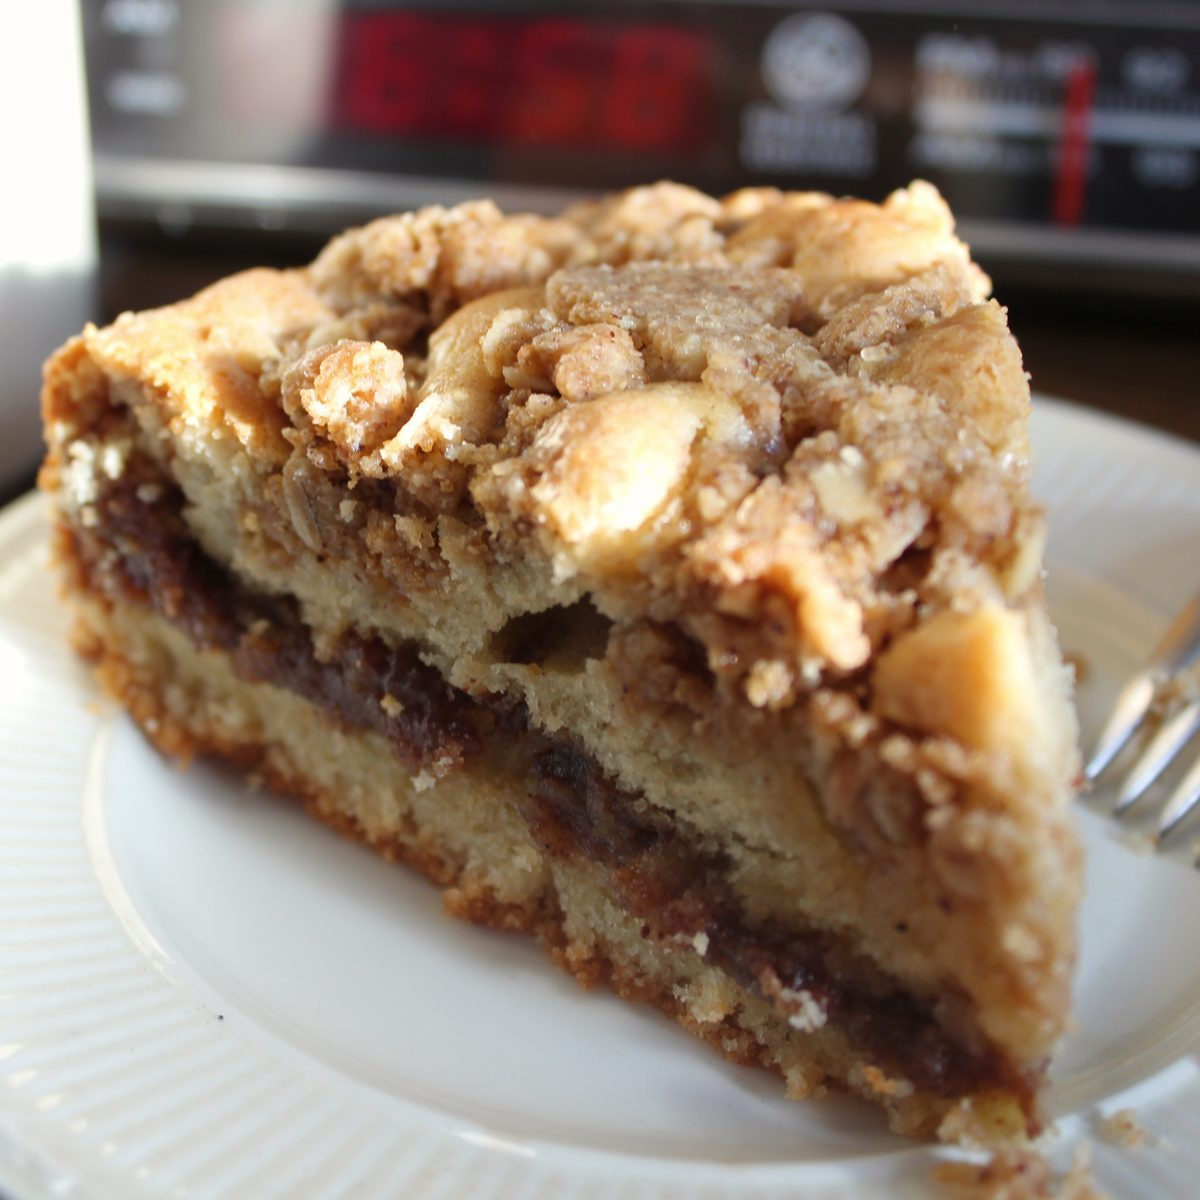
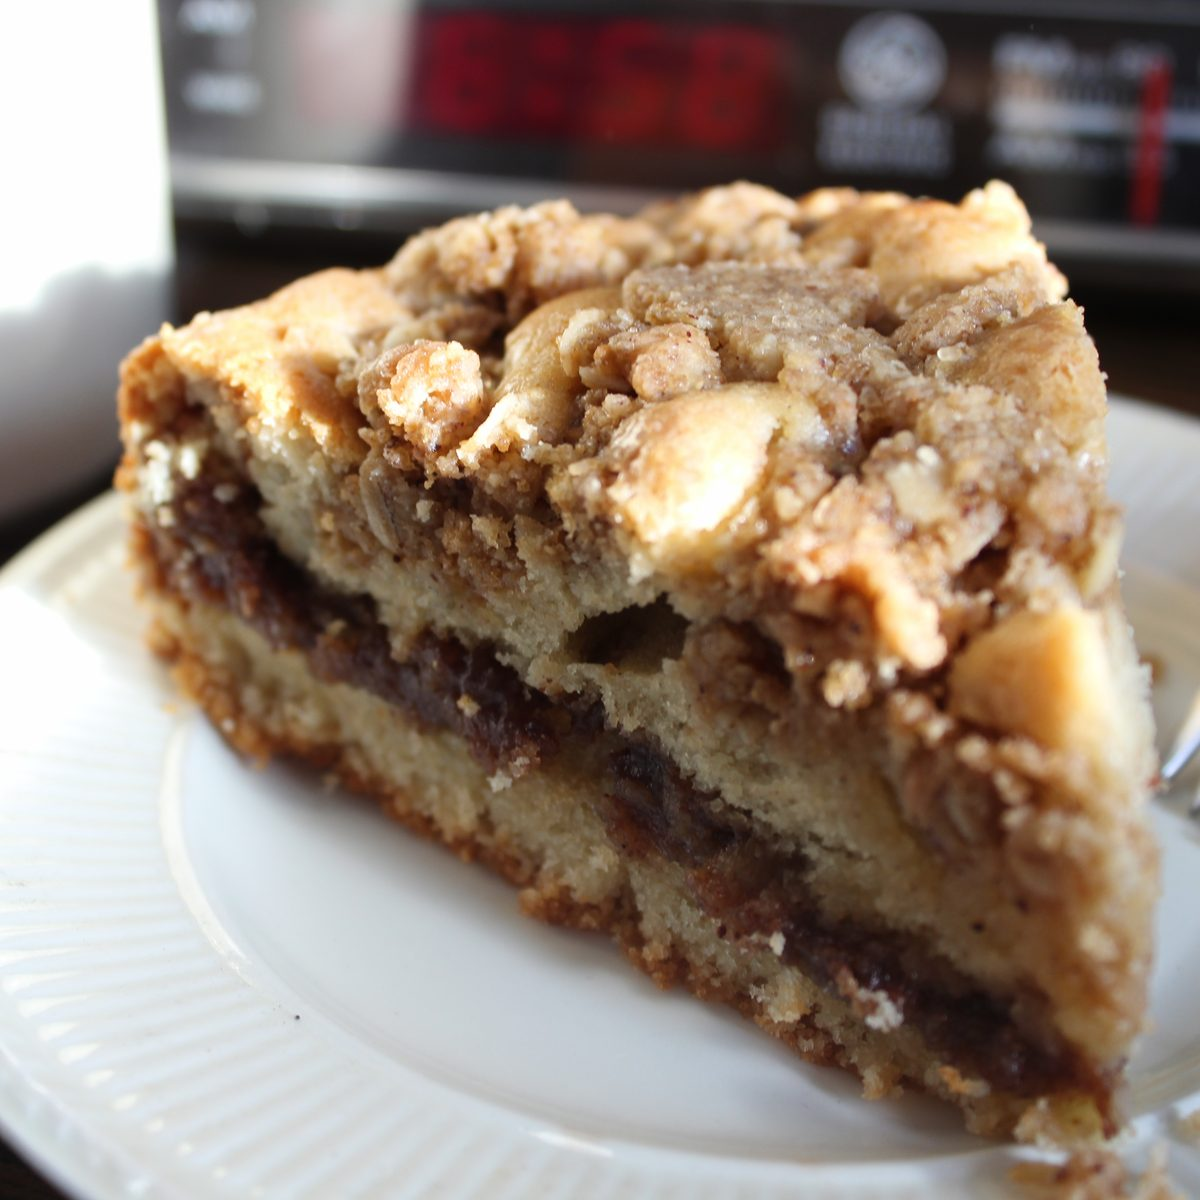
Re-center the coffee cake crop
The slice measures ~4296px wide in the original but the photo is only
3456px tall, so no square crop can hold the whole thing; something always
gets cut. The previous crop cut mostly one side, which read as lopsided
next to the tahini card.

Re-cropped from the 5184x3456 original at x0=950, full height, so the slice
sits centered with the plate rim showing on both sides and the cutting is
symmetric. Bumped to ?v=3.

A squarer or portrait original would remove the constraint entirely if this
gets reshot before launch.

Claude-Session: https://claude.ai/code/session_01SSp9fqnrPG4XQmLYsGqCfN

diff --git a/index.html b/index.html
@@ -118,7 +118,7 @@
         <p class="menu-price">$4</p>
       </a>
       <a class="menu-card card-olive" href="products/hazelnut-coffee-cake">
-        <img loading="lazy" decoding="async" src="assets/coffee-cake-slice.jpg?v=2" alt="A slice of hazelnut coffee cake with cinnamon ribbon and streusel" />
+        <img loading="lazy" decoding="async" src="assets/coffee-cake-slice.jpg?v=3" alt="A slice of hazelnut coffee cake with cinnamon ribbon and streusel" />
         <h3>Hazelnut coffee cake</h3>
         <p>Buttery crumb buried under Oregon hazelnut streusel.</p>
         <p class="menu-price">$6 slice · $32 whole</p>

diff --git a/preorder.html b/preorder.html
@@ -93,7 +93,7 @@
       </div>
 
       <div class="order-card" data-price="6" data-stock="6">
-        <div class="order-photo" style="background-color:#6f7d4a;background-image:url('assets/coffee-cake-slice.jpg?v=2')" role="img" aria-label="Slice of hazelnut coffee cake"></div>
+        <div class="order-photo" style="background-color:#6f7d4a;background-image:url('assets/coffee-cake-slice.jpg?v=3')" role="img" aria-label="Slice of hazelnut coffee cake"></div>
         <div class="order-body">
           <div class="order-title-row">
             <h3>Hazelnut coffee cake</h3>

diff --git a/products/hazelnut-coffee-cake.html b/products/hazelnut-coffee-cake.html
@@ -70,7 +70,7 @@
     </div>
 
     <section class="product-grid">
-      <img class="framed" src="../assets/coffee-cake-slice.jpg?v=2" alt="A slice of hazelnut coffee cake on a white plate, showing the cinnamon ribbon and hazelnut streusel" />
+      <img class="framed" src="../assets/coffee-cake-slice.jpg?v=3" alt="A slice of hazelnut coffee cake on a white plate, showing the cinnamon ribbon and hazelnut streusel" />
       <div class="product-copy">
         <a class="back-to-menu" href="/#menu">← Back to the menu</a>
         <p class="product-price">$6 slice · $32 whole cake</p>